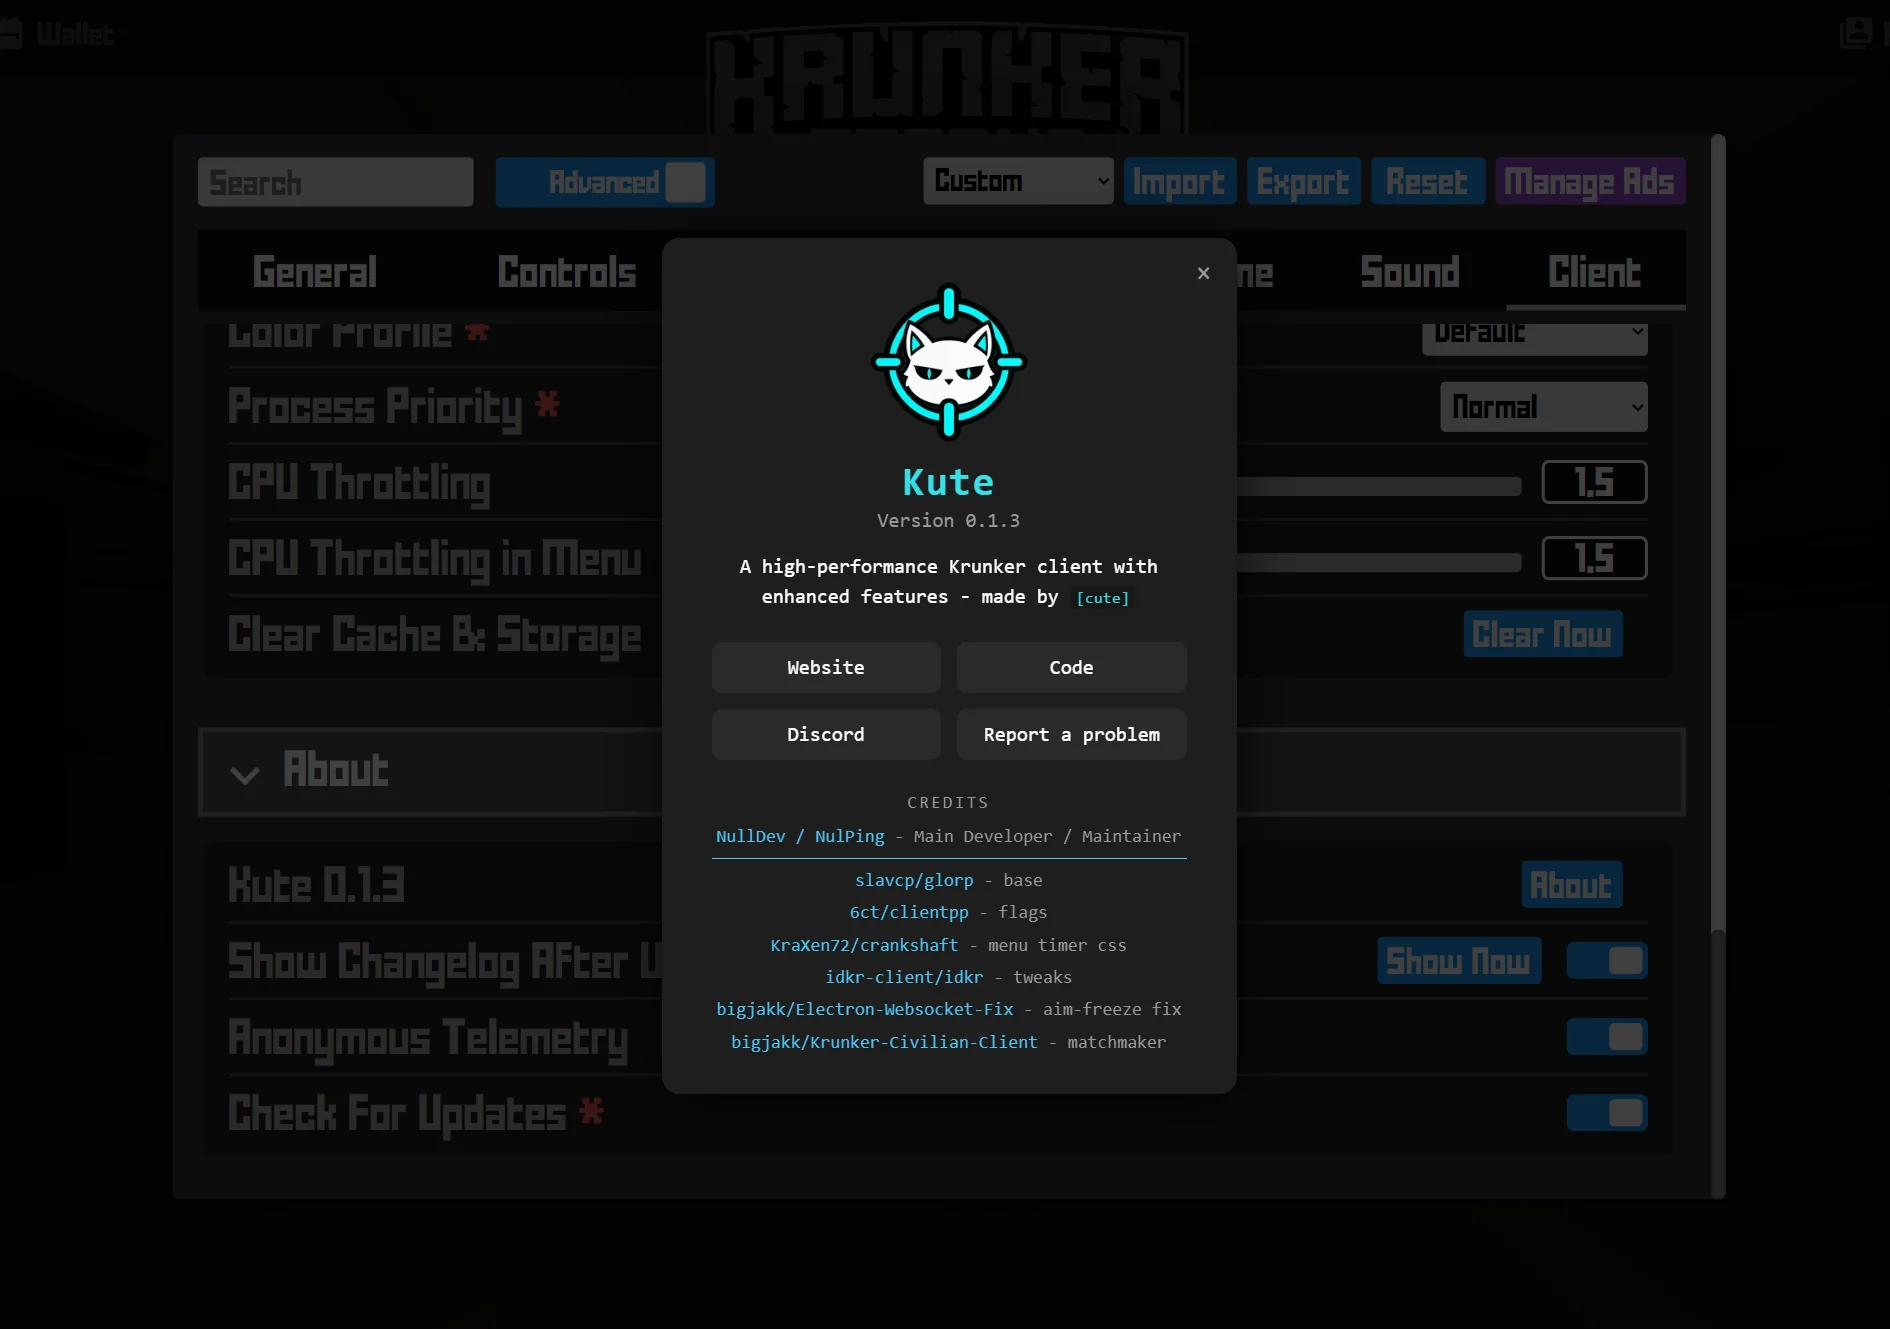
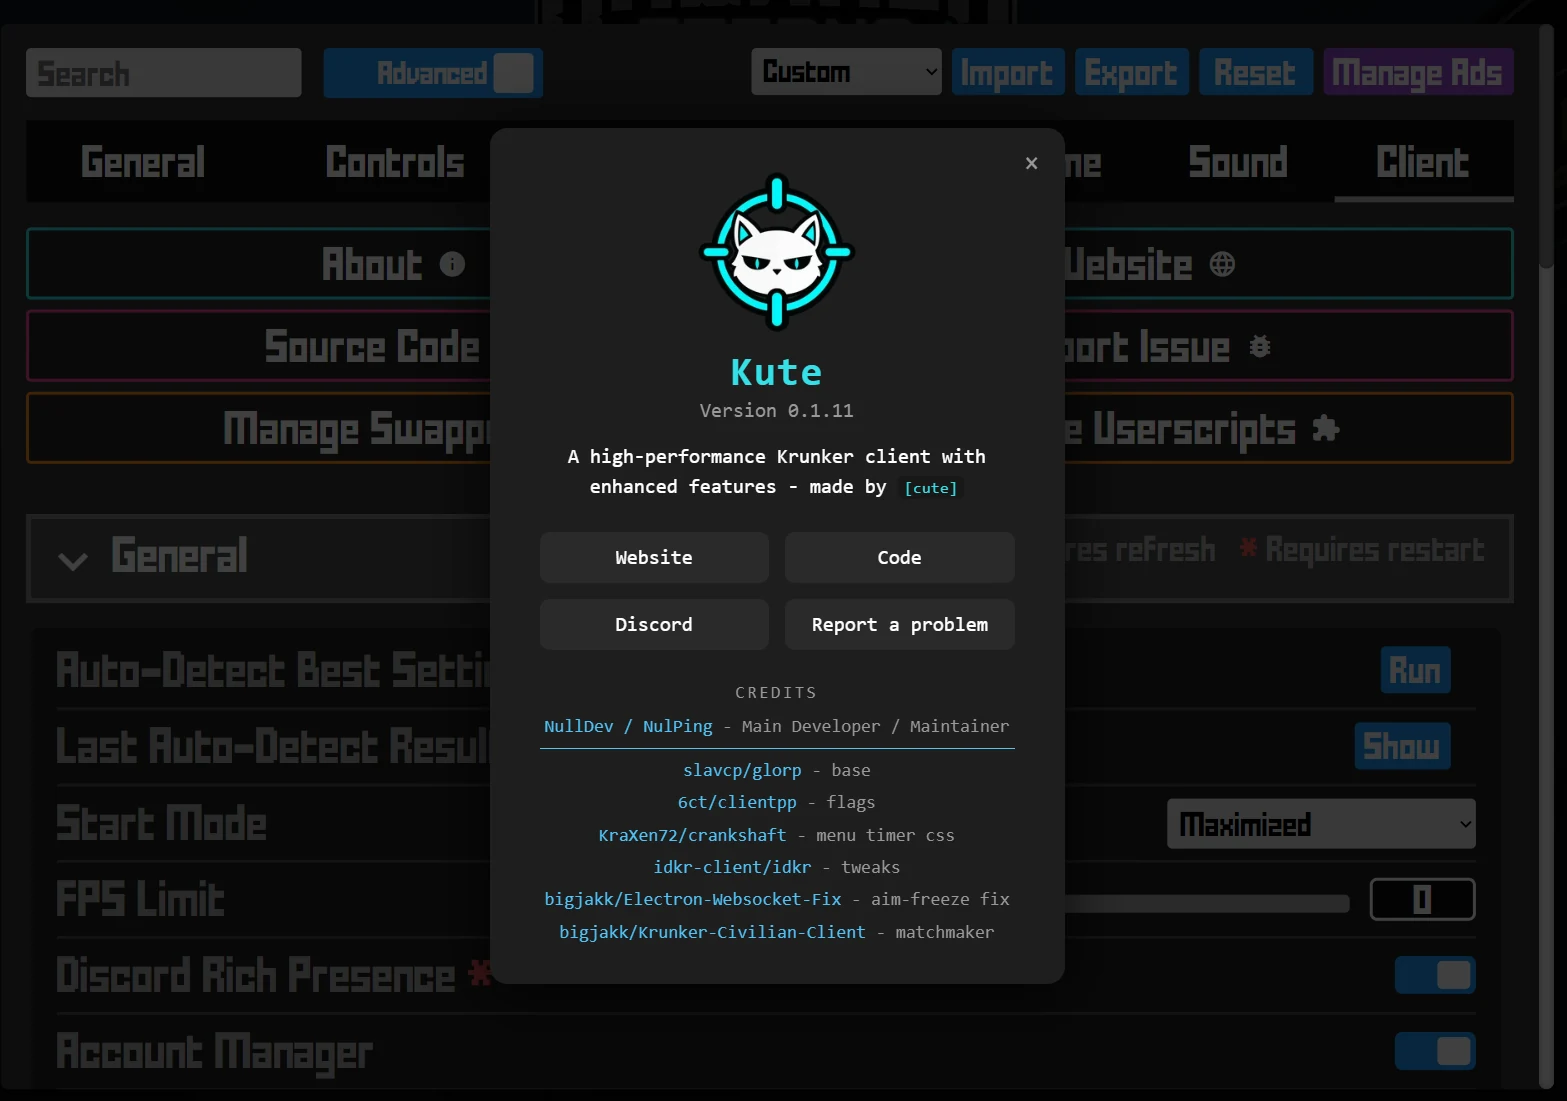
update the settings screenshot and add the scripts and swapper one

diff --git a/server/public/index.html b/server/public/index.html
@@ -266,7 +266,7 @@
           <button class="screen-card screen-main reveal" type="button" data-src="./assets/kute-settings.webp" data-title="Client settings">
             <span class="screen-number">01</span>
             <span class="screen-image">
-              <img src="./assets/kute-settings.webp" alt="Kute's settings in Krunker's settings menu, with the About dialog open" width="1890" height="1329" />
+              <img src="./assets/kute-settings.webp" alt="Kute's settings in Krunker's settings menu, with the About dialog open" width="1567" height="1101" />
             </span>
             <span class="screen-caption"><b>CLIENT SETTINGS</b><small>Kute's settings sit in Krunker's own menu</small><i>VIEW ↗</i></span>
           </button>
@@ -291,10 +291,13 @@
             </span>
             <span class="screen-caption"><b>HUD EDITOR</b><small>Put every HUD element where you want it</small><i>VIEW ↗</i></span>
           </button>
-          <div class="screen-card screen-soon reveal" aria-hidden="true">
+          <button class="screen-card reveal" type="button" data-src="./assets/kute-swap.png" data-title="Userscripts and swapper">
             <span class="screen-number">05</span>
-            <span>SOON™</span>
-          </div>
+            <span class="screen-image">
+              <img src="./assets/kute-swap.png" alt="The userscript manager with script settings open, and the swapper manager next to the game's files" width="2459" height="1639" loading="lazy" />
+            </span>
+            <span class="screen-caption"><b>SCRIPTS &amp; SWAPPER</b><small>Manage userscripts and swaps in the client</small><i>VIEW ↗</i></span>
+          </button>
         </div>
       </section>
 

diff --git a/server/public/style.css b/server/public/style.css
@@ -1160,26 +1160,6 @@ h2 {
   letter-spacing: 0.08em;
 }
 
-/* the placeholder card: nothing to open, so it says so and stays quiet */
-.screen-soon {
-  display: grid;
-  place-items: center;
-  border-style: dashed;
-  cursor: default;
-}
-
-.screen-soon:hover {
-  z-index: auto;
-  border-color: var(--line);
-  box-shadow: none;
-}
-
-.screen-soon span {
-  color: var(--dim);
-  font: 800 clamp(0.9rem, 1.6vw, 1.3rem)/1 var(--mono);
-  letter-spacing: 0.12em;
-}
-
 .features {
   display: grid;
   grid-template-columns: minmax(240px, 0.6fr) minmax(0, 1.4fr);
